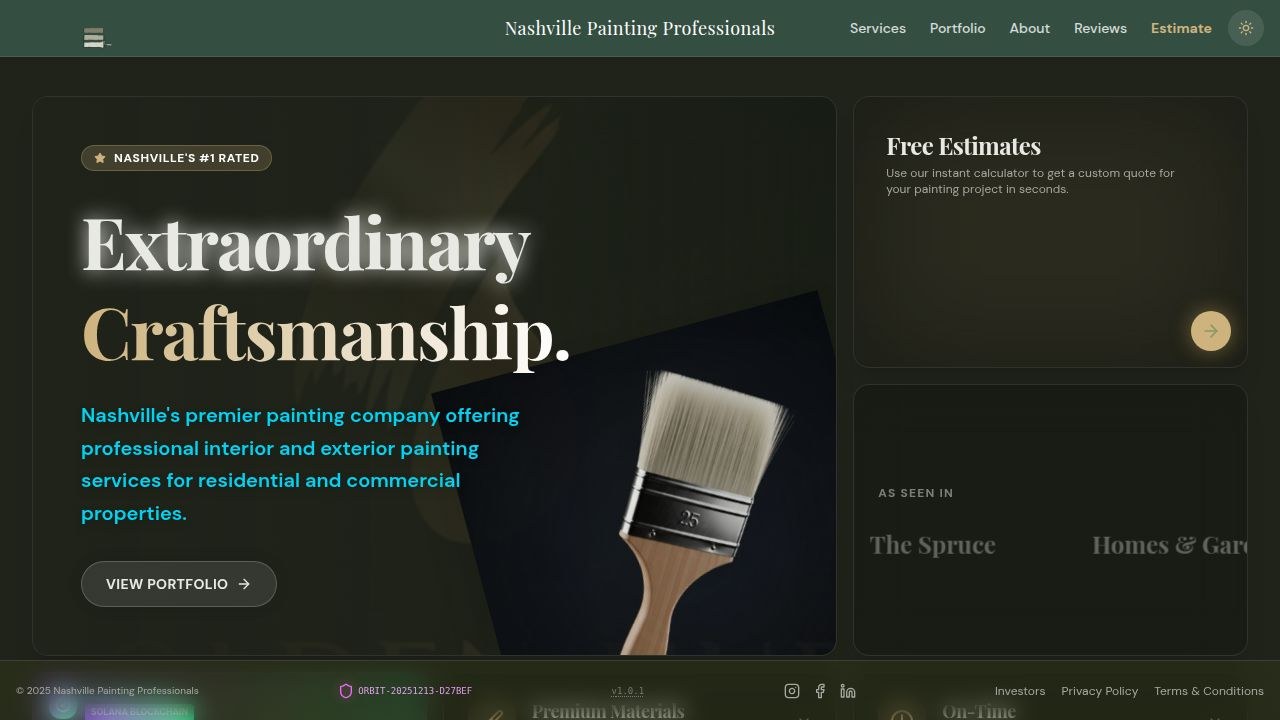
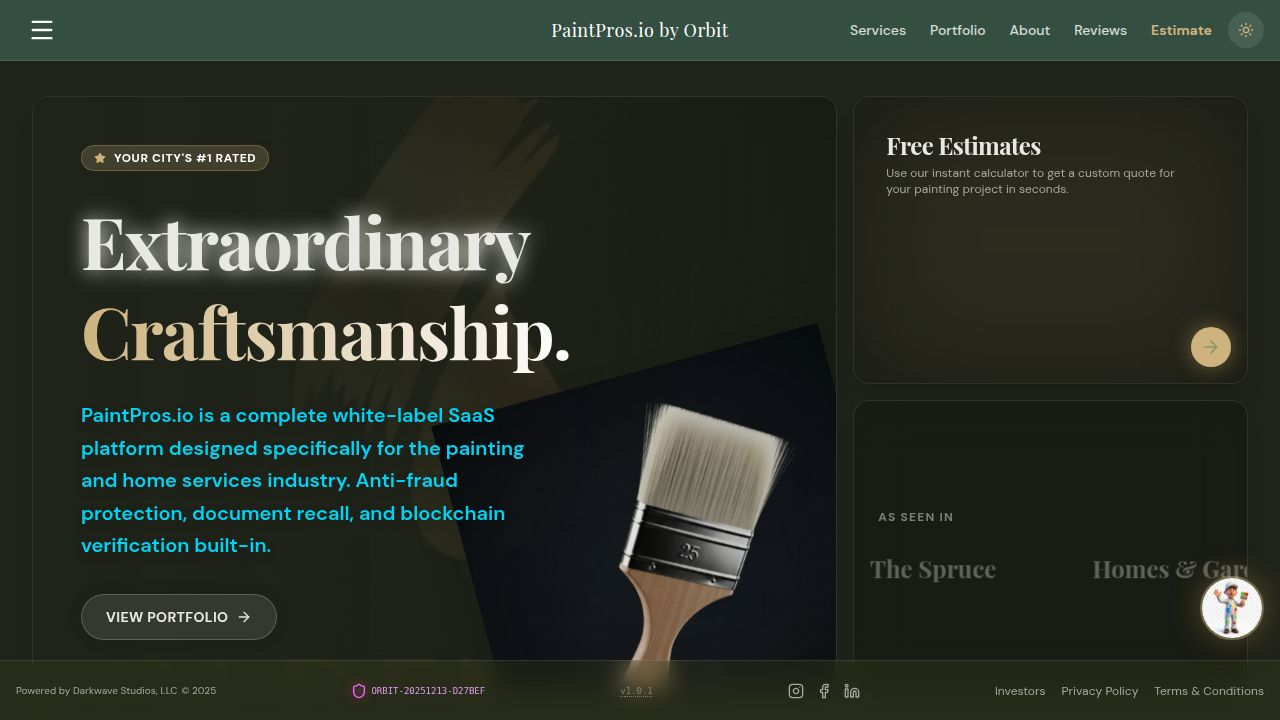
Add a comparison page and update the hamburger menu
Introduces a new comparison page for the demo tenant, integrates a comparison link into the navigation bar, and updates the hamburger menu icon to a standard three-line menu for the sales version.

Replit-Commit-Author: Agent
Replit-Commit-Session-Id: 9640b7bd-518e-421e-8382-ba3444a8e185
Replit-Commit-Checkpoint-Type: intermediate_checkpoint
Replit-Commit-Event-Id: d213705e-1717-459d-b795-dfbae8e9199a
Replit-Commit-Screenshot-Url: https://storage.googleapis.com/screenshot-production-us-central1/57a1a84c-83d8-41f5-82c5-8661edb484a4/9640b7bd-518e-421e-8382-ba3444a8e185/Fj1M64B
Replit-Helium-Checkpoint-Created: true

diff --git a/client/src/pages/compare.tsx b/client/src/pages/compare.tsx
@@ -1,0 +1,321 @@
+import { useEffect } from "react";
+import { useLocation } from "wouter";
+import { motion } from "framer-motion";
+import { Check, X, Star, Zap, Shield, Smartphone, Globe, DollarSign, Clock, Users, Palette, FileText, CreditCard, BarChart3, Bot, Lock } from "lucide-react";
+import { Navbar } from "@/components/ui/navbar";
+import { Footer } from "@/components/layout/footer";
+import { useTenant } from "@/context/TenantContext";
+
+interface Competitor {
+  name: string;
+  logo?: string;
+  pricing: string;
+  features: Record<string, boolean | string>;
+}
+
+const competitors: Competitor[] = [
+  {
+    name: "PaintPros.io",
+    pricing: "$299/mo",
+    features: {
+      instantEstimates: true,
+      mobileApp: true,
+      whiteLabelWebsite: true,
+      onlineBooking: true,
+      crmBuiltIn: true,
+      paymentProcessing: true,
+      blockchainVerification: true,
+      aiAssistant: true,
+      seoTools: true,
+      multiLocation: true,
+      customBranding: true,
+      analyticsReports: true,
+      franchiseReady: true,
+      setupFee: "$0",
+      contractLength: "Month-to-month",
+    },
+  },
+  {
+    name: "Jobber",
+    pricing: "$69-$349/mo",
+    features: {
+      instantEstimates: false,
+      mobileApp: true,
+      whiteLabelWebsite: false,
+      onlineBooking: true,
+      crmBuiltIn: true,
+      paymentProcessing: true,
+      blockchainVerification: false,
+      aiAssistant: false,
+      seoTools: false,
+      multiLocation: "Add-on",
+      customBranding: false,
+      analyticsReports: true,
+      franchiseReady: false,
+      setupFee: "$0",
+      contractLength: "Annual discount",
+    },
+  },
+  {
+    name: "Housecall Pro",
+    pricing: "$65-$169/mo",
+    features: {
+      instantEstimates: false,
+      mobileApp: true,
+      whiteLabelWebsite: false,
+      onlineBooking: true,
+      crmBuiltIn: true,
+      paymentProcessing: true,
+      blockchainVerification: false,
+      aiAssistant: false,
+      seoTools: false,
+      multiLocation: "Enterprise",
+      customBranding: false,
+      analyticsReports: true,
+      franchiseReady: false,
+      setupFee: "$0",
+      contractLength: "Monthly",
+    },
+  },
+  {
+    name: "ServiceTitan",
+    pricing: "$398+/mo",
+    features: {
+      instantEstimates: false,
+      mobileApp: true,
+      whiteLabelWebsite: false,
+      onlineBooking: true,
+      crmBuiltIn: true,
+      paymentProcessing: true,
+      blockchainVerification: false,
+      aiAssistant: "Add-on",
+      seoTools: false,
+      multiLocation: true,
+      customBranding: false,
+      analyticsReports: true,
+      franchiseReady: true,
+      setupFee: "$2,000+",
+      contractLength: "Annual",
+    },
+  },
+  {
+    name: "Painter's CRM",
+    pricing: "$99-$299/mo",
+    features: {
+      instantEstimates: true,
+      mobileApp: true,
+      whiteLabelWebsite: false,
+      onlineBooking: false,
+      crmBuiltIn: true,
+      paymentProcessing: "3rd party",
+      blockchainVerification: false,
+      aiAssistant: false,
+      seoTools: false,
+      multiLocation: false,
+      customBranding: false,
+      analyticsReports: true,
+      franchiseReady: false,
+      setupFee: "$499",
+      contractLength: "Annual",
+    },
+  },
+];
+
+const featureLabels: Record<string, { label: string; icon: React.ElementType; description: string }> = {
+  instantEstimates: { label: "Instant Estimates", icon: Zap, description: "Generate accurate quotes in seconds" },
+  mobileApp: { label: "Mobile App", icon: Smartphone, description: "iOS and Android apps for field work" },
+  whiteLabelWebsite: { label: "White-Label Website", icon: Globe, description: "Fully branded website included" },
+  onlineBooking: { label: "Online Booking", icon: Clock, description: "Customers can book appointments online" },
+  crmBuiltIn: { label: "CRM Built-In", icon: Users, description: "Customer relationship management" },
+  paymentProcessing: { label: "Payment Processing", icon: CreditCard, description: "Accept cards and online payments" },
+  blockchainVerification: { label: "Blockchain Verification", icon: Shield, description: "Solana-verified documents" },
+  aiAssistant: { label: "AI Assistant", icon: Bot, description: "24/7 AI-powered customer support" },
+  seoTools: { label: "SEO Tools", icon: BarChart3, description: "Built-in search optimization" },
+  multiLocation: { label: "Multi-Location", icon: Globe, description: "Manage multiple locations" },
+  customBranding: { label: "Custom Branding", icon: Palette, description: "Your logo, colors, and domain" },
+  analyticsReports: { label: "Analytics & Reports", icon: BarChart3, description: "Business insights dashboard" },
+  franchiseReady: { label: "Franchise Ready", icon: Users, description: "Built for franchise operations" },
+  setupFee: { label: "Setup Fee", icon: DollarSign, description: "One-time onboarding cost" },
+  contractLength: { label: "Contract Length", icon: FileText, description: "Commitment requirements" },
+};
+
+function FeatureCell({ value }: { value: boolean | string }) {
+  if (value === true) {
+    return (
+      <div className="flex justify-center">
+        <div className="w-8 h-8 rounded-full bg-green-500/20 flex items-center justify-center">
+          <Check className="w-5 h-5 text-green-400" />
+        </div>
+      </div>
+    );
+  }
+  if (value === false) {
+    return (
+      <div className="flex justify-center">
+        <div className="w-8 h-8 rounded-full bg-red-500/20 flex items-center justify-center">
+          <X className="w-5 h-5 text-red-400" />
+        </div>
+      </div>
+    );
+  }
+  return (
+    <div className="text-center text-sm text-muted-foreground">{value}</div>
+  );
+}
+
+export default function Compare() {
+  const tenant = useTenant();
+  const [, setLocation] = useLocation();
+
+  useEffect(() => {
+    if (tenant.id !== "demo") {
+      setLocation("/");
+    }
+  }, [tenant.id, setLocation]);
+
+  if (tenant.id !== "demo") {
+    return null;
+  }
+
+  return (
+    <div className="min-h-screen bg-background">
+      <Navbar />
+      
+      <main className="pt-20 pb-16">
+        <div className="max-w-7xl mx-auto px-4">
+          <motion.div
+            initial={{ opacity: 0, y: 20 }}
+            animate={{ opacity: 1, y: 0 }}
+            className="text-center mb-12"
+          >
+            <h1 className="text-4xl md:text-5xl font-bold mb-4">
+              How We <span className="text-accent">Compare</span>
+            </h1>
+            <p className="text-xl text-muted-foreground max-w-2xl mx-auto">
+              See why painting professionals choose PaintPros.io over the competition
+            </p>
+          </motion.div>
+
+          <motion.div
+            initial={{ opacity: 0, y: 20 }}
+            animate={{ opacity: 1, y: 0 }}
+            transition={{ delay: 0.1 }}
+            className="bg-white/5 border border-white/10 rounded-2xl p-6 mb-8"
+          >
+            <div className="flex items-center gap-3 mb-4">
+              <div className="w-12 h-12 rounded-full bg-accent/20 flex items-center justify-center">
+                <Star className="w-6 h-6 text-accent" />
+              </div>
+              <div>
+                <h2 className="text-xl font-bold">Why PaintPros.io Wins</h2>
+                <p className="text-muted-foreground">The only platform built specifically for painting professionals</p>
+              </div>
+            </div>
+            <div className="grid grid-cols-1 md:grid-cols-3 gap-4">
+              <div className="bg-white/5 rounded-xl p-4">
+                <Shield className="w-8 h-8 text-accent mb-2" />
+                <h3 className="font-semibold mb-1">Blockchain Verified</h3>
+                <p className="text-sm text-muted-foreground">Every estimate stamped to Solana blockchain for fraud protection</p>
+              </div>
+              <div className="bg-white/5 rounded-xl p-4">
+                <Bot className="w-8 h-8 text-accent mb-2" />
+                <h3 className="font-semibold mb-1">AI-Powered</h3>
+                <p className="text-sm text-muted-foreground">24/7 AI assistant handles customer questions automatically</p>
+              </div>
+              <div className="bg-white/5 rounded-xl p-4">
+                <Lock className="w-8 h-8 text-accent mb-2" />
+                <h3 className="font-semibold mb-1">No Lock-In</h3>
+                <p className="text-sm text-muted-foreground">Month-to-month billing, no setup fees, cancel anytime</p>
+              </div>
+            </div>
+          </motion.div>
+
+          <motion.div
+            initial={{ opacity: 0 }}
+            animate={{ opacity: 1 }}
+            transition={{ delay: 0.2 }}
+            className="overflow-x-auto"
+          >
+            <table className="w-full border-collapse" data-testid="table-comparison">
+              <thead>
+                <tr className="border-b border-white/10">
+                  <th className="text-left py-4 px-4 font-semibold text-lg">Feature</th>
+                  {competitors.map((comp, i) => (
+                    <th 
+                      key={comp.name} 
+                      className={`text-center py-4 px-4 min-w-[140px] ${i === 0 ? 'bg-accent/10 rounded-t-xl' : ''}`}
+                    >
+                      <div className={`font-bold text-lg ${i === 0 ? 'text-accent' : ''}`}>{comp.name}</div>
+                      <div className={`text-sm ${i === 0 ? 'text-accent/80' : 'text-muted-foreground'}`}>{comp.pricing}</div>
+                    </th>
+                  ))}
+                </tr>
+              </thead>
+              <tbody>
+                {Object.entries(featureLabels).map(([key, { label, icon: Icon, description }], rowIndex) => (
+                  <motion.tr 
+                    key={key}
+                    initial={{ opacity: 0, x: -20 }}
+                    animate={{ opacity: 1, x: 0 }}
+                    transition={{ delay: 0.3 + rowIndex * 0.03 }}
+                    className="border-b border-white/5 hover:bg-white/5 transition-colors"
+                  >
+                    <td className="py-4 px-4">
+                      <div className="flex items-center gap-3">
+                        <Icon className="w-5 h-5 text-muted-foreground" />
+                        <div>
+                          <div className="font-medium">{label}</div>
+                          <div className="text-xs text-muted-foreground hidden md:block">{description}</div>
+                        </div>
+                      </div>
+                    </td>
+                    {competitors.map((comp, i) => (
+                      <td 
+                        key={`${comp.name}-${key}`} 
+                        className={`py-4 px-4 ${i === 0 ? 'bg-accent/5' : ''}`}
+                      >
+                        <FeatureCell value={comp.features[key]} />
+                      </td>
+                    ))}
+                  </motion.tr>
+                ))}
+              </tbody>
+            </table>
+          </motion.div>
+
+          <motion.div
+            initial={{ opacity: 0, y: 20 }}
+            animate={{ opacity: 1, y: 0 }}
+            transition={{ delay: 0.5 }}
+            className="mt-12 text-center"
+          >
+            <div className="bg-gradient-to-r from-accent/20 via-accent/10 to-accent/20 rounded-2xl p-8 border border-accent/30">
+              <h2 className="text-2xl md:text-3xl font-bold mb-4">Ready to Switch to PaintPros.io?</h2>
+              <p className="text-muted-foreground mb-6 max-w-xl mx-auto">
+                Join hundreds of painting professionals who've upgraded their business with our all-in-one platform.
+              </p>
+              <div className="flex flex-col sm:flex-row gap-4 justify-center">
+                <a 
+                  href="/estimate" 
+                  className="px-8 py-3 bg-accent text-black font-bold rounded-xl hover:bg-accent/90 transition-colors"
+                  data-testid="button-compare-demo"
+                >
+                  Try Free Demo
+                </a>
+                <a 
+                  href="/investors" 
+                  className="px-8 py-3 bg-white/10 text-white font-medium rounded-xl hover:bg-white/20 transition-colors border border-white/20"
+                  data-testid="button-compare-pricing"
+                >
+                  View Pricing Tiers
+                </a>
+              </div>
+            </div>
+          </motion.div>
+        </div>
+      </main>
+
+      <Footer />
+    </div>
+  );
+}

diff --git a/client/src/components/ui/navbar.tsx b/client/src/components/ui/navbar.tsx
@@ -19,6 +19,7 @@ export function Navbar() {
     { name: "Portfolio", href: "/portfolio", enabled: tenant.features.portfolio },
     { name: "About", href: "/about" },
     { name: "Reviews", href: "/reviews", enabled: tenant.features.reviews },
+    { name: "Compare", href: "/compare", enabled: tenant.id === "demo" },
     { name: "Estimate", href: "/estimate", highlight: true, enabled: tenant.features.estimator },
   ].filter(link => link.enabled !== false);
 
@@ -33,15 +34,20 @@ export function Navbar() {
     <>
     <header className="fixed top-0 left-0 right-0 z-50 border-b border-white/10" style={{ backgroundColor: '#344e41' }}>
       <div className="w-full px-0 md:px-4 py-0 md:py-1 flex items-center justify-between">
-        {/* Left: Hamburger Emblem */}
+        {/* Left: Hamburger Menu */}
         <button 
-          className="p-0 hover:bg-white/10 rounded-lg transition-all flex-shrink-0 flex items-center -ml-[45px] -mt-[15px] md:ml-0 md:mt-0"
+          className={cn(
+            "hover:bg-white/10 rounded-lg transition-all flex-shrink-0 flex items-center",
+            tenant.id === "demo" ? "p-2 md:p-3" : "p-0 -ml-[45px] -mt-[15px] md:ml-0 md:mt-0"
+          )}
           onClick={() => setIsOpen(!isOpen)}
           data-testid="button-hamburger-menu"
           aria-label="Toggle menu"
         >
           {isOpen ? (
             <X size={24} className="text-white" />
+          ) : tenant.id === "demo" ? (
+            <Menu size={28} className="text-white" />
           ) : (
             <img 
               src={nppEmblem} 

diff --git a/client/src/App.tsx b/client/src/App.tsx
@@ -21,6 +21,7 @@ import Verify from "@/pages/verify";
 import Pay from "@/pages/pay";
 import ProposalSign from "@/pages/proposal-sign";
 import Investors from "@/pages/investors";
+import Compare from "@/pages/compare";
 
 function AnalyticsTracker() {
   useAnalytics();
@@ -44,6 +45,7 @@ function Router() {
       <Route path="/pay/:estimateId" component={Pay} />
       <Route path="/proposal/:id/sign" component={ProposalSign} />
       <Route path="/investors" component={Investors} />
+      <Route path="/compare" component={Compare} />
       <Route component={NotFound} />
     </Switch>
   );
